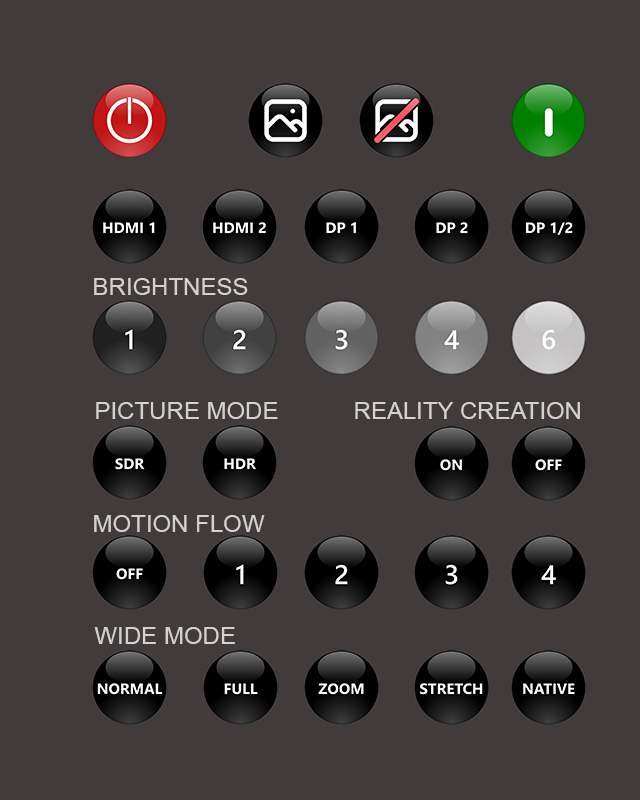
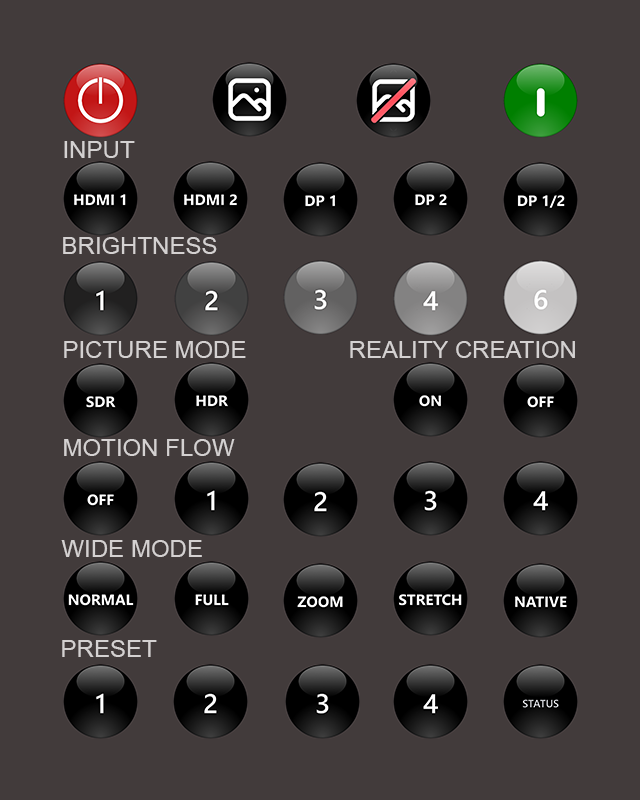
Updated VLC webUI and added buttons adcp

diff --git a/templates/zrct300.html b/templates/zrct300.html
@@ -6,39 +6,45 @@
     <body>
         <div class="container">            
             <map id="imgmap20246268412" name="imgmap20246268412">
-                <area shape="circle" alt="" title="Standby" coords="129,121,39" href="?function=PowerOff" target="_self" />
-                <area shape="circle" alt="" title="PowerOn" coords="551,121,39" href="?function=PowerOn" target="_self" />
-                <area shape="circle" alt="" title="PictureMuteOff" coords="284,121,39" href="?function=PicMuteOn" target="_self" />
-                <area shape="circle" alt="" title="PictureMuteOn" coords="397,121,39" href="?function=PicMuteOff" target="_self" />
+                <area shape="circle" alt="" title="Standby" coords="100,100,40" href="?function=PowerOff" target="_self" />
+                <area shape="circle" alt="" title="PowerOn" coords="540,100,40" href="?function=PowerOn" target="_self" />
+                <area shape="circle" alt="" title="PictureMuteOn" coords="245,100,40" href="?function=PicMuteOn" target="_self" />
+                <area shape="circle" alt="" title="PictureMuteOff" coords="390,100,40" href="?function=PicMuteOff" target="_self" />
                 
-                <area shape="circle" alt="" title="HDMI1" coords="129,227,39" href="?function=InputHDMI1" target="_self" />
-                <area shape="circle" alt="" title="HDMI2" coords="239,227,39" href="?function=InputHDMI2" target="_self" />
-                <area shape="circle" alt="" title="DP1" coords="342,227,39" href="?function=InputDP1" target="_self" />
-                <area shape="circle" alt="" title="DP2" coords="451,227,39" href="?function=InputDP2" target="_self" />
-                <area shape="circle" alt="" title="DP1/2" coords="551,227,39" href="?function=InputDP12" target="_self" />
+                <area shape="circle" alt="" title="HDMI1" coords="100,200,40" href="?function=InputHDMI1" target="_self" />
+                <area shape="circle" alt="" title="HDMI2" coords="210,200,40" href="?function=InputHDMI2" target="_self" />
+                <area shape="circle" alt="" title="DP1" coords="320,200,40" href="?function=InputDP1" target="_self" />
+                <area shape="circle" alt="" title="DP2" coords="430,200,40" href="?function=InputDP2" target="_self" />
+                <area shape="circle" alt="" title="DP1/2" coords="540,200,40" href="?function=InputDP12" target="_self" />
 
-                <area shape="circle" alt="" title="LightOutput1" coords="129,339,39" href="?function=LightOutput1" target="_self" />
-                <area shape="circle" alt="" title="LightOutput2" coords="239,339,39" href="?function=LightOutput2" target="_self" />
-                <area shape="circle" alt="" title="LightOutput3" coords="342,339,39" href="?function=LightOutput3" target="_self" />
-                <area shape="circle" alt="" title="LightOutput4" coords="451,339,39" href="?function=LightOutput4" target="_self" />
-                <area shape="circle" alt="" title="LightOutput6" coords="551,339,39" href="?function=LightOutput6" target="_self" />
+                <area shape="circle" alt="" title="LightOutput1" coords="100,300,40" href="?function=LightOutput1" target="_self" />
+                <area shape="circle" alt="" title="LightOutput2" coords="210,300,40" href="?function=LightOutput2" target="_self" />
+                <area shape="circle" alt="" title="LightOutput3" coords="320,300,40" href="?function=LightOutput3" target="_self" />
+                <area shape="circle" alt="" title="LightOutput4" coords="430,300,40" href="?function=LightOutput4" target="_self" />
+                <area shape="circle" alt="" title="LightOutput6" coords="540,300,40" href="?function=LightOutput6" target="_self" />
 
-                <area shape="circle" alt="" title="Preset1" coords="129,463,39" href="?function=Preset1" target="_self" />
-                <area shape="circle" alt="" title="Preset2" coords="239,463,39" href="?function=Preset2" target="_self" />
-                <area shape="circle" alt="" title="RealityCreationOn" coords="451,463,39" href="?function=RealityCreationOn" target="_self" />
-                <area shape="circle" alt="" title="RealityCreationOff" coords="551,463,39" href="?function=RealityCreationOff" target="_self" />
+                <area shape="circle" alt="" title="SDR" coords="100,400,40" href="?function=SDR" target="_self" />
+                <area shape="circle" alt="" title="HDR" coords="210,400,40" href="?function=HDR" target="_self" />
+                <area shape="circle" alt="" title="RealityCreationOn" coords="430,400,40" href="?function=RealityCreationOn" target="_self" />
+                <area shape="circle" alt="" title="RealityCreationOff" coords="540,400,40" href="?function=RealityCreationOff" target="_self" />
 
-                <area shape="circle" alt="" title="MotionFlowOff" coords="129,571,39" href="?function=MotionFlowOff" target="_self" />
-                <area shape="circle" alt="" title="MotionFlow1" coords="239,571,39" href="?function=MotionFlow1" target="_self" />
-                <area shape="circle" alt="" title="MotionFlow2" coords="342,571,39" href="?function=MotionFlow2" target="_self" />
-                <area shape="circle" alt="" title="MotionFlow3" coords="451,571,39" href="?function=MotionFlow3" target="_self" />
-                <area shape="circle" alt="" title="MotionFlow4" coords="551,571,39" href="?function=MotionFlow4" target="_self" />
+                <area shape="circle" alt="" title="MotionFlowOff" coords="100,500,40" href="?function=MotionFlowOff" target="_self" />
+                <area shape="circle" alt="" title="MotionFlow1" coords="210,500,40" href="?function=MotionFlow1" target="_self" />
+                <area shape="circle" alt="" title="MotionFlow2" coords="320,500,40" href="?function=MotionFlow2" target="_self" />
+                <area shape="circle" alt="" title="MotionFlow3" coords="430,500,40" href="?function=MotionFlow3" target="_self" />
+                <area shape="circle" alt="" title="MotionFlow4" coords="540,500,40" href="?function=MotionFlow4" target="_self" />
 
-                <area shape="circle" alt="" title="WideModeNormal" coords="129,686,39" href="?function=WideModeNormal" target="_self" />
-                <area shape="circle" alt="" title="WideModeFull" coords="239,686,39" href="?function=WideModeFull" target="_self" />
-                <area shape="circle" alt="" title="WideModeZoom" coords="342,686,39" href="?function=WideModeZoom" target="_self" />
-                <area shape="circle" alt="" title="WideModeStretch" coords="451,686,39" href="?function=WideModeStretch" target="_self" />
-                <area shape="circle" alt="" title="WideModeNative" coords="551,686,39" href="?function=WideModeNative" target="_self" />
+                <area shape="circle" alt="" title="WideModeNormal" coords="100,600,40" href="?function=WideModeNormal" target="_self" />
+                <area shape="circle" alt="" title="WideModeFull" coords="210,600,40" href="?function=WideModeFull" target="_self" />
+                <area shape="circle" alt="" title="WideModeZoom" coords="320,600,40" href="?function=WideModeZoom" target="_self" />
+                <area shape="circle" alt="" title="WideModeStretch" coords="430,600,40" href="?function=WideModeStretch" target="_self" />
+                <area shape="circle" alt="" title="WideModeNative" coords="540,600,40" href="?function=WideModeNative" target="_self" />
+
+                <area shape="circle" alt="" title="Preset1" coords="100,700,40" href="?function=Preset1" target="_self" />
+                <area shape="circle" alt="" title="Preset2" coords="210,700,40" href="?function=Preset2" target="_self" />
+                <area shape="circle" alt="" title="Preset3" coords="320,700,40" href="?function=Preset3" target="_self" />
+                <area shape="circle" alt="" title="Preset4" coords="430,700,40" href="?function=Preset4" target="_self" />
+                <area shape="circle" alt="" title="Status" coords="540,700,40" href="?function=Status" target="_self" />
             </map>
             <img src="images/cled_landscape.png" usemap="#imgmap20246268412" class="img-fluid">
         </div>

diff --git a/templates/vlc.html b/templates/vlc.html
@@ -4,20 +4,63 @@
     <!-- <meta http-equiv="refresh" content="5"> -->
     <h1>{% block title %} VLC Controller {% endblock %}</h1>
 
-    <a href="?vlcPlayDefaultList" type="button" class="btn btn-primary">PlayDefaultList</a>
-    <a href="?vlcPlay" type="button" class="btn btn-primary">Play</a>
-    <a href="?vlcPause" type="button" class="btn btn-primary">Pause</a>
-    <br><br><br>
-    <a href="?vlcPrev" type="button" class="btn btn-primary">Prev</a>
-    <a href="?vlcNext" type="button" class="btn btn-primary">Next</a>
-    <br><br><br>
-    <a href="?vlcHelp" type="button" class="btn btn-primary">Help</a>
-    <a href="?vlcInfo" type="button" class="btn btn-primary">Info</a>
-    <a href="?vlcTitle" type="button" class="btn btn-primary">Title</a>
-    <a href="?vlcPlaylist" type="button" class="btn btn-primary">Playlist</a>
-    <a href="?vlcStatus" type="button" class="btn btn-primary">Status</a>
+    <div class="container">
+        <a href="?function=PlayDefaultPlaylist" type="button" class="btn btn-primary">SONY</a>
+        <a href="?function=PlayCustomPlaylist" type="button" class="btn btn-primary">USB</a>
+        <br><br><br>
 
-    <h3>Is init: {{ vlc }}<h3></h3>
+        <a href="?function=Pause" type="button" class="btn btn-primary">Pause</a>
+        <a href="?function=Prev" type="button" class="btn btn-primary">Prev</a>
+        <a href="?function=Next" type="button" class="btn btn-primary">Next</a>
+        <br><br><br>
+        <a href="?function=RestartVLC" type="button" class="btn btn-primary">Restart VLC</a>
+        <br><br><br>
+        <a href="?function=Info" type="button" class="btn btn-primary">Info</a>
+        <a href="?function=Status" type="button" class="btn btn-primary">Status</a>
+    </div>
+    <div class="container">
+        {% if function %}
+            <div id="function-text">Status: {{ function }}</div>
+
+            <script>
+                setTimeout(function () {
+                    document.getElementById('function-text').style.display = 'none'
+                }, 5000)
+            </script>
+        
+        {% endif %}
+
+        {% if status %}
+            <div id="status-list-text">
+                {% for list_value in status %}
+                    {{ list_value }}<br>
+                {% endfor %}
+            </div>
+            <script>
+                setTimeout(function() {
+                    // location.reload()
+                    document.getElementById('status-list-text').style.display = 'none'
+                }, 5000)
+            </script>
+        {% endif %}
+
+        {% if info %}
+            <div id="info-list-text">
+                {% for list_value in info %}
+                    {{ list_value }}<br>
+                {% endfor %}
+            </div>
+            <script>
+                setTimeout(function() {
+                    document.getElementById('info-list-text').style.display = 'none'
+                    // location.reload()
+                }, 5000)
+            </script>
+        {% endif %}
+
+
+    </div>
+
 
 
 {% endblock %}

diff --git a/main.py b/main.py
@@ -37,6 +37,9 @@ class ModelVLC(str, Enum):
      PlayDefaultPlaylist = "PlayDefaultPlaylist"
      PlayCustomPlaylist = "PlayCustomPlaylist"
      RestartVLC = "RestartVLC"
+     Info = "Info"
+     Status = "Status"
+     Get_Title = "Get_Title"
 
 class ModelADCP(str, Enum):
      '''
@@ -77,6 +80,7 @@ class ModelADCP(str, Enum):
      WideModeZoom = "WideModeZoom"
      WideModeStretch = "WideModeStretch"
      WideModeNative = "WideModeNative"
+     Status = "Status"
 
 
 class ModelVISCA(str, Enum):
@@ -102,6 +106,7 @@ class ModelSystem(str, Enum):
 @app.get("/api/vlc/{function}")
 async def vlc_api_function(function: ModelVLC):
     try:
+        config = ReadConfig()
         vlc_player = player()
     except:
         start_vlc()
@@ -122,12 +127,17 @@ async def vlc_api_function(function: ModelVLC):
         restart_vlc()
     elif function is ModelVLC.Pause:
         vlc_player.pause()
+    elif function is ModelVLC.Info:
+        return vlc_player.info()
+    elif function is ModelVLC.Status:
+        return vlc_player.status()
     return {"Function": function} 
 
 @app.get("/api/adcp/{function}")
 async def adcp_api_function(function: ModelADCP):
     result = False
     try:
+        config = ReadConfig()
         adcp_controller = adcp(host_ip=config.adcp_host, port=config.adcp_port, password=config.adcp_password, verbose=config.verbose)
     except:
         return {"ERROR": "Could not connect to host"}
@@ -173,6 +183,8 @@ async def adcp_api_function(function: ModelADCP):
         result = adcp_controller.send_PictureMuteOn()
     elif function is ModelADCP.PictureMuteOff:
         result = adcp_controller.send_PictureMuteOff()
+    elif function is ModelADCP.SDR:
+        result = adcp_controller.send_SDR()
     elif function is ModelADCP.HDR:
         result = adcp_controller.send_HDR()
     elif function is ModelADCP.RealityCreationOn:
@@ -199,12 +211,16 @@ async def adcp_api_function(function: ModelADCP):
         result = adcp_controller.send_WideModeStretch()
     elif function is ModelADCP.WideModeNative:
         result = adcp_controller.send_WideModeNative()
+    elif function is ModelADCP.Status:
+        result = adcp_controller.send_Status()
     
+
     return result
 
 @app.get("/api/visca/{function}")
 async def visca_api_function(function: ModelVISCA):
     try:
+        config = ReadConfig()
         visca_controller = Camera(ip=config.visca_host, port=config.visca_port, verbose=config.verbose)
     except:
         return {"ERROR": "Could not connect to host"}
@@ -239,9 +255,24 @@ async def system_api_function(function: ModelSystem):
 
 ## TemplateResponse
 @app.get("/vlc", response_class=HTMLResponse)
-async def vlc(request: Request):
+async def vlc(request: Request, function: ModelVLC | None=None):
+    ## If we get a function we need to execute that action. Result is used to print status.
+    context = {}
+    if function:
+        try:
+            result = await vlc_api_function(function)
+            ## Create context to pass to bootstrap
+            if function is ModelVLC.Status:
+                context["status"] = result
+            elif function is ModelVLC.Info:
+                context["info"] = result
+            else:
+                context["function"] = result
+        except:
+            context["status"] = {"Error connecting to VLC"}
+
     return templates.TemplateResponse(
-        request=request, name="vlc.html"
+        request=request, name="vlc.html", context=context
     )
 
 @app.get("/zrct300", response_class=HTMLResponse)

diff --git a/lib/start_vlc.py b/lib/start_vlc.py
@@ -4,7 +4,7 @@ import time
 from logger.logger import Logger
 
 verbose = 5
-vlc_cmd='/usr/bin/vlc -f --intf rc --x11-display :0 -A alsa --alsa-audio-channels 6 --drm-vout-source-modeset --drm-vout-display HDMI-A-1 --no-video-title-show --no-osd --no-spu --rc-host 127.0.0.1:44500'
+vlc_cmd='/usr/bin/cvlc -f --intf rc --x11-display :0 -A alsa --alsa-audio-channels 6 --drm-vout-source-modeset --drm-vout-display HDMI-A-1 --no-video-title-show --no-osd --no-spu --rc-host 127.0.0.1:44500'
 
 def process_exists(proc_name):
     # # Use pgrep in order to find any existing VLC process

diff --git a/lib/adcp.py b/lib/adcp.py
@@ -245,3 +245,7 @@ class adcp:
         command = 'aspect "native"'
         return self._send_command(command=command)
 
+
+    def send_Status(self):
+        command = 'warning ?'
+        return self._send_command(command=command)
